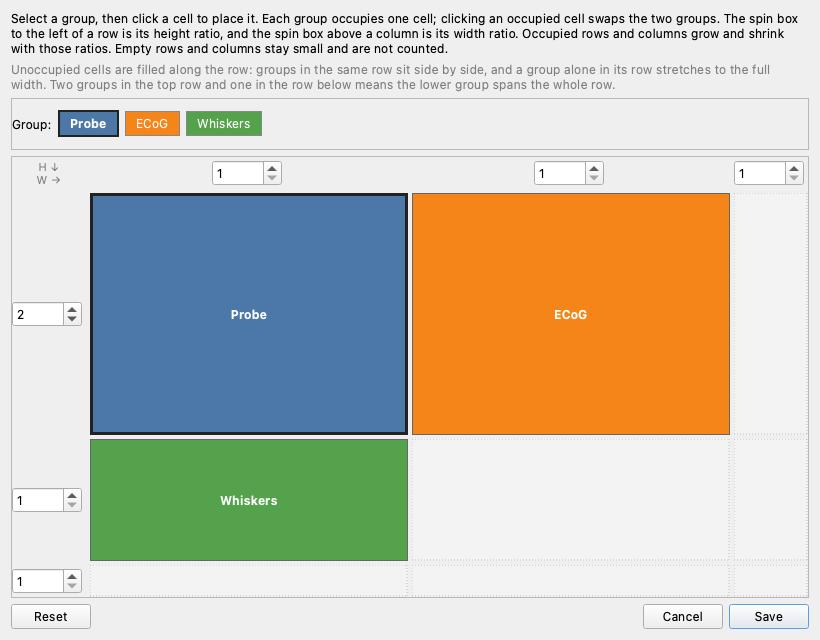
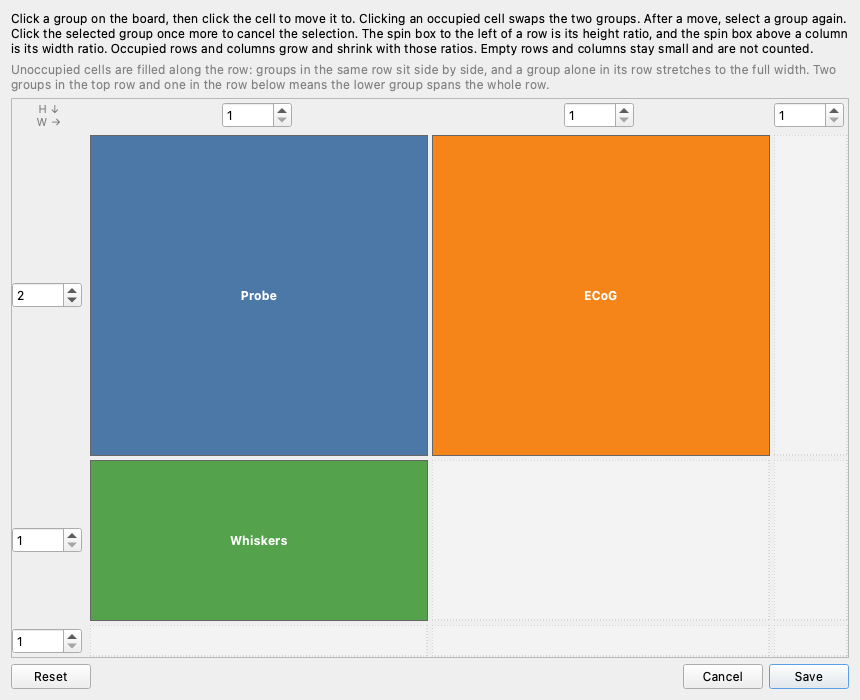
feat: panel scroll, duration input focus, group layout flow

diff --git a/ephyr/gui/panels/channel_management_panel.py b/ephyr/gui/panels/channel_management_panel.py
@@ -25,7 +25,6 @@ from PyQt6.QtWidgets import (
     QTabWidget,
     QGridLayout,
     QSizePolicy,
-    QButtonGroup,
 )
 from typing import Dict, List, Optional, Set, Tuple
 
@@ -898,19 +897,19 @@ class GroupsLayoutDialog(QDialog):
         self._colors = [self._GROUP_COLORS[i % len(self._GROUP_COLORS)] for i in range(len(groups))]
         self._cells, row_ratios, col_ratios = self._seed_cells(groups)
         self._n = len(groups)
-        self._selected = 0 if groups else -1
+        self._selected = -1
         self._row_spins: List[QSpinBox] = []
         self._col_spins: List[QSpinBox] = []
         self._cell_buttons: List[List[QPushButton]] = []
-        self._group_buttons: List[QPushButton] = []
 
         root = QVBoxLayout(self)
         caption = QLabel(
-            "Select a group, then click a cell to place it. Each group occupies one cell; "
-            "clicking an occupied cell swaps the two groups. The spin box to the left of a row "
-            "is its height ratio, and the spin box above a column is its width ratio. "
-            "Occupied rows and columns grow and shrink with those ratios. Empty rows and columns "
-            "stay small and are not counted."
+            "Click a group on the board, then click the cell to move it to. "
+            "Clicking an occupied cell swaps the two groups. After a move, select a group again. "
+            "Click the selected group once more to cancel the selection. "
+            "The spin box to the left of a row is its height ratio, and the spin box above a column "
+            "is its width ratio. Occupied rows and columns grow and shrink with those ratios. "
+            "Empty rows and columns stay small and are not counted."
         )
         caption.setWordWrap(True)
         root.addWidget(caption)
@@ -922,30 +921,6 @@ class GroupsLayoutDialog(QDialog):
         packing.setWordWrap(True)
         packing.setStyleSheet("color: gray;")
         root.addWidget(packing)
-
-        picker_scroll = QScrollArea()
-        picker_scroll.setWidgetResizable(True)
-        picker_scroll.setHorizontalScrollBarPolicy(Qt.ScrollBarPolicy.ScrollBarAsNeeded)
-        picker_scroll.setVerticalScrollBarPolicy(Qt.ScrollBarPolicy.ScrollBarAlwaysOff)
-        picker_scroll.setFixedHeight(52)
-        picker = QWidget()
-        picker_row = QHBoxLayout(picker)
-        picker_row.setContentsMargins(0, 0, 0, 0)
-        picker_row.addWidget(QLabel("Group:"))
-        self._group_btn_group = QButtonGroup(self)
-        self._group_btn_group.setExclusive(True)
-        for i, name in enumerate(self._names):
-            button = QPushButton(name)
-            button.setCheckable(True)
-            button.setAutoDefault(False)
-            button.setFocusPolicy(Qt.FocusPolicy.NoFocus)
-            button.clicked.connect(lambda _checked=False, gi=i: self._select_group(gi))
-            self._group_btn_group.addButton(button, i)
-            self._group_buttons.append(button)
-            picker_row.addWidget(button)
-        picker_row.addStretch(1)
-        picker_scroll.setWidget(picker)
-        root.addWidget(picker_scroll)
 
         for r in range(self._n):
             self._row_spins.append(self._make_ratio_spin(row_ratios[r], "Height ratio"))
@@ -986,10 +961,7 @@ class GroupsLayoutDialog(QDialog):
         self.reset_btn.clicked.connect(self._reset)
         self.cancel_btn.clicked.connect(self.reject)
         self.save_btn.clicked.connect(self.accept)
-        if self._selected >= 0:
-            self._select_group(self._selected)
-        else:
-            self._restyle_cells()
+        self._restyle_cells()
 
     @staticmethod
     def _make_ratio_spin(value: int, tooltip: str) -> QSpinBox:
@@ -1107,30 +1079,23 @@ class GroupsLayoutDialog(QDialog):
         if not (0 <= index < self._n):
             return
         self._selected = index
-        for i, button in enumerate(self._group_buttons):
-            selected = i == index
-            button.setChecked(selected)
-            button.setStyleSheet(self._group_button_style(i, selected))
         self._restyle_cells()
 
-    def _group_button_style(self, index: int, selected: bool) -> str:
-        bg = self._colors[index]
-        fg = self._text_on(bg)
-        border = "2px solid #222222" if selected else "1px solid #888888"
-        weight = "bold" if selected else "normal"
-        return (
-            f"QPushButton {{ background-color: {bg}; color: {fg}; border: {border}; "
-            f"padding: 4px 10px; font-weight: {weight}; }}"
-        )
+    def _clear_group_selection(self) -> None:
+        self._selected = -1
+        self._restyle_cells()
 
     def _restyle_cells(self) -> None:
+        has_selection = self._selected >= 0
         for r in range(self._n):
             for c in range(self._n):
                 group_idx = self._cells[r][c]
                 button = self._cell_buttons[r][c]
                 if group_idx is None:
                     button.setText("")
-                    button.setToolTip("Place the selected group here")
+                    button.setToolTip(
+                        "Place the selected group here" if has_selection else "Select a group first"
+                    )
                     button.setStyleSheet(
                         "QPushButton { background-color: #f3f3f3; border: 1px dashed #bbbbbb; }"
                         "QPushButton:hover { background-color: #e7e7e7; }"
@@ -1141,15 +1106,27 @@ class GroupsLayoutDialog(QDialog):
                 fg = self._text_on(bg)
                 selected = group_idx == self._selected
                 border = "3px solid #222222" if selected else "1px solid #666666"
+                if selected:
+                    tooltip = "Selected. Click another cell to move it, or click again to cancel"
+                elif has_selection:
+                    tooltip = "Swap with the selected group"
+                else:
+                    tooltip = "Select this group"
                 button.setText(name)
-                button.setToolTip(name)
+                button.setToolTip(tooltip)
                 button.setStyleSheet(
                     f"QPushButton {{ background-color: {bg}; color: {fg}; border: {border}; "
                     f"font-weight: bold; padding: 2px; }}"
                 )
 
     def _on_cell_clicked(self, row: int, col: int) -> None:
+        occupant = self._cells[row][col]
         if self._selected < 0:
+            if occupant is not None:
+                self._select_group(occupant)
+            return
+        if occupant == self._selected:
+            self._clear_group_selection()
             return
         self._move_group(self._selected, row, col)
 
@@ -1169,7 +1146,7 @@ class GroupsLayoutDialog(QDialog):
             old_row, old_col = current
             self._cells[old_row][old_col] = occupant if occupant not in (None, group_idx) else None
         self._cells[row][col] = group_idx
-        self._restyle_cells()
+        self._clear_group_selection()
         self._board.reposition()
 
     def _reset(self) -> None:

diff --git a/ephyr/gui/panels/signal_panel.py b/ephyr/gui/panels/signal_panel.py
@@ -2046,15 +2046,8 @@ class SignalPanel(QWidget):
                 and watched is self.time_scrollbar
                 and event.type() == QEvent.Type.Wheel
                 and isinstance(event, QWheelEvent)):
-            delta = event.angleDelta().y() or event.angleDelta().x()
-            if delta > 0:
-                self.on_single_right_click()
-            elif delta < 0:
-                self.on_single_left_click()
-            else:
-                return super().eventFilter(watched, event)
-            event.accept()
-            return True
+            if self._step_time_by_wheel(event):
+                return True
 
         return super().eventFilter(watched, event)
 
@@ -3020,11 +3013,22 @@ class SignalPanel(QWidget):
         if self._session_manager.gui_setup:
             if event.modifiers() & Qt.KeyboardModifier.ControlModifier:
                 self.__zoom(event)
-            else:
-                pass
-                # self.__scroll_horizontally(event)
+            elif not self._step_time_by_wheel(event):
+                super().wheelEvent(event)
         else:
             super().wheelEvent(event)
+
+    def _step_time_by_wheel(self, event: QWheelEvent) -> bool:
+        """Move the visible window by one time_step_ms, same as the time scrollbar."""
+        delta = event.angleDelta().y() or event.angleDelta().x()
+        if delta > 0:
+            self.on_single_right_click()
+        elif delta < 0:
+            self.on_single_left_click()
+        else:
+            return False
+        event.accept()
+        return True
 
     def __zoom(self, event):
         cursor_x = event.position().x()
@@ -3053,15 +3057,3 @@ class SignalPanel(QWidget):
             self._redraw_data()
 
         event.accept()
-
-    def __scroll_horizontally(self, event):
-        cursor_x = event.position().x()
-        widget_width = self.width()
-        if cursor_x < 0 or cursor_x > widget_width:
-            return
-
-        delta = event.angleDelta().y()
-        if delta > 0:  # go right
-            self.on_single_right_click()
-        else:  # go left
-            self.on_single_left_click()

diff --git a/ephyr/gui/panels/time_settings_panel.py b/ephyr/gui/panels/time_settings_panel.py
@@ -39,6 +39,8 @@ class TimeSettingsPanel(QWidget):
         self.duration_spinbox.setRange(settings.MIN_DURATION, settings.MAX_DURATION)
         self.duration_spinbox.setSingleStep(100)
         self.duration_spinbox.setSuffix(" ms")
+        # Commit the typed value on Enter or focus-out, not on every keystroke.
+        self.duration_spinbox.setKeyboardTracking(False)
 
         self.time_step_spinbox = QSpinBox()
         self.time_step_spinbox.setRange(settings.MIN_TIME_STEP, settings.MAX_DURATION)
@@ -93,7 +95,7 @@ class TimeSettingsPanel(QWidget):
 
     def connect_signals(self):
         self.start_point_spinbox.valueChanged.connect(self._on_start_point_ms_changed)
-        self.duration_spinbox.valueChanged.connect(self._on_duration_changed)
+        self.duration_spinbox.editingFinished.connect(self._commit_duration)
         self.time_step_spinbox.valueChanged.connect(self._session_manager.set_time_step_ms)
         self.autoscroll_step_interval_spinbox.valueChanged.connect(
             self._session_manager.set_autoscroll_step_interval_ms
@@ -145,11 +147,19 @@ class TimeSettingsPanel(QWidget):
             return
         self._session_manager.set_start_point(self._start_idx_from_ms(start_ms))
 
+    def _commit_duration(self):
+        """Apply duration when Enter is pressed or the field loses focus."""
+        if self._updating:
+            return
+        self._on_duration_changed(int(self.duration_spinbox.value()))
+
     def _on_duration_changed(self, duration_ms: int):
         """Keep the time-window center fixed when duration changes."""
         if self._updating:
             return
         gui_setup = self._session_manager.gui_setup
+        if gui_setup is not None and int(gui_setup.duration_ms) == duration_ms:
+            return
         header = self._session_manager.header
         if not gui_setup or not header or float(header.sample_rate) <= 0:
             self._session_manager.set_duration_ms(duration_ms)

diff --git a/docs/gui/settings_panel.md b/docs/gui/settings_panel.md
@@ -48,14 +48,14 @@ laid out on screen.
 | Control                       | Mode | Purpose |
 |-------------------------------|------|---------|
 | **Add channels group**        | **Expert only** | Creates a new empty channel-group tab. Disabled in Beginner mode. |
-| **Groups layout**             | **Expert only** | Opens an N×N grid (N is the number of groups) to place each group in one cell and set row and column ratios. Disabled in Beginner mode. |
+| **Groups layout**             | **Expert only** | Opens an N×N grid (N is the number of groups). Click a group on the board, then click the cell to move it to, and set row and column ratios. Disabled in Beginner mode. |
 | **Set units**                 | **Expert only** | Opens header units management so you can change voltage units for selected channels. Disabled in Beginner mode. |
 
 ![Groups layout dialog](../source/_static/gui/groups_layout.png)
 
 ### Groups layout
 
-**Groups layout** opens an N×N grid, where N is the number of channel groups. Select a group, then click a cell to place it. Each group occupies one cell; clicking an occupied cell swaps the two groups.
+**Groups layout** opens an N×N grid, where N is the number of channel groups. Click a group on the board to select it, then click the cell to move it to. Each group occupies one cell; clicking an occupied cell swaps the two groups. After a move, the selection is cleared, so the next move starts by selecting a group again. Click the selected group a second time to cancel the selection without moving it.
 
 The spin box to the left of a row is its **height ratio**, and the spin box above a column is its **width ratio**. Occupied rows and columns in the grid grow and shrink with those ratios. Empty rows and columns stay small and are not counted.
 
